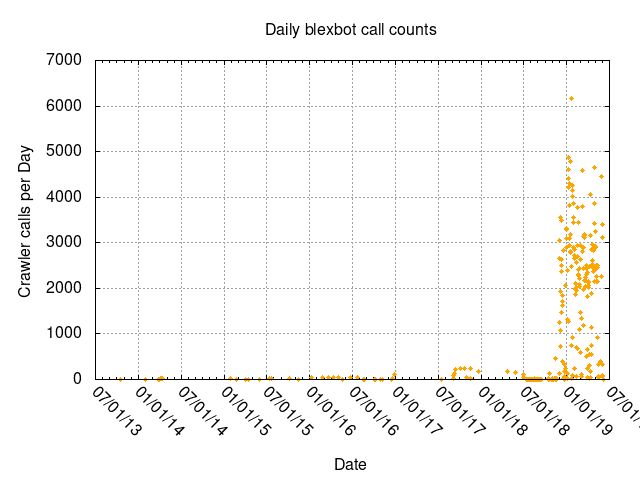
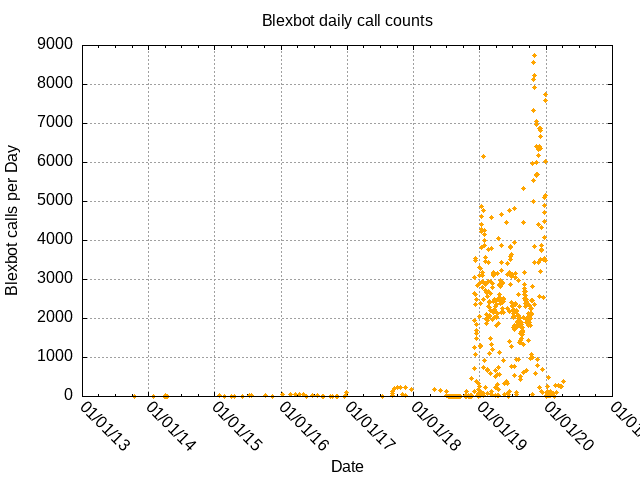
BLEXbot changes again

diff --git a/README.md b/README.md
@@ -101,7 +101,19 @@ that got downloaded to my WordPress honey pot.
 I gave every access by BLEXBot to `bork.php`.
 BLEXBot went nuts,
 from making a desultory 10 to 100 HTTP requests a day
-to making 2000-4000 HTTP requests a day.
+to making 2000-9000 HTTP requests a day,
+until 2019-12-31.
+On 2020-01-01, BLEXbot dropped to 97 hits per day.
+Between 2020-01-01 and 2020-04-09, BLEXbot has made no more than 490
+calls in a single day. In those 100 days, BLEXbot has made calls on
+only 22 days.
+In the previous year, it made calls on 364 days,
+but my server had some outages, so effectively every day.
+This radical change happening on January 1st probably isn't coincidental.
+I imagine the BLEXbot people did some kind of cull or other analysis,
+and the 3144 unique URLs from a single site probably stood out.
+
+## Conclusion
 
 I conclude that `bork.php` has more effect on shadier, SEO spiders,
 less effect on spiders associated with real businesses.
